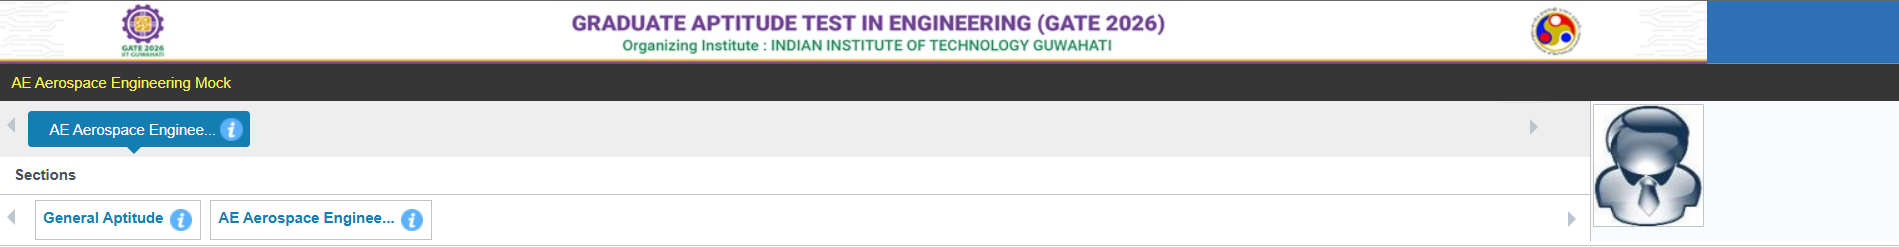
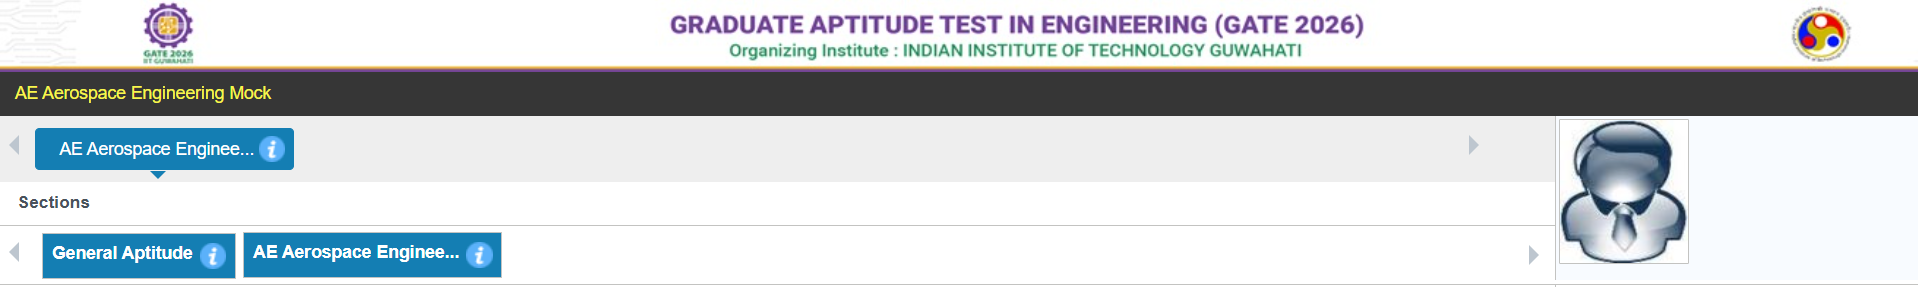
minor fixes

diff --git a/backend/frontend/resultManager.js b/backend/frontend/resultManager.js
@@ -125,7 +125,7 @@ function renderOptionsMCQ(r) {
 
         const displayText = formatInlineText(sanitize(rawText));
         const displayImg = rawImage
-            ? `<img src="${rawImage}" style="max-height: 200px;">`
+            ? `<img src="${rawImage}" class="option-img">`
             : '';
 
         // Compare EXACT VALUES (text or image path)
@@ -178,7 +178,7 @@ function renderOptionsMSQ(r) {
 
         const displayText = formatInlineText(sanitize(rawText));
         const displayImg = rawImage
-            ? `<img src="${rawImage}" style="max-height: 200px;">`
+            ? `<img src="${rawImage}" class="option-img">`
             : '';
 
         const isUser = userIdx.includes(index);
@@ -225,8 +225,11 @@ function viewResponseDetails(data, username, timestamp) {
     let totalTime = 0;
     let mcqWrong = 0;
     let penalty = 0;
+    let maxMarks = 0;
 
     responses.forEach(r => {
+        const w = Number(r.weightage) || 1;
+        maxMarks += w;
         if (r.response === 'Skipped') {
             skipped++;
         }
@@ -267,7 +270,17 @@ function viewResponseDetails(data, username, timestamp) {
     </b></p>`;
     html += `
     <div style="margin-top: 15px; font-size: 15px; line-height: 1.6;">
-        <p><b>🧮Total Questions:</b> ${total} | <b>📌Attempted:</b> ${attempted} | <b>🟣Skipped:</b> <span style="color: purple;">${skipped}</span> <br> <b>🎯Correct:</b> <span style="color: green;">${correct}</span> | <b>❌Wrong:</b> <span style="color: red;">${wrong}</span> | <b>🔻Penalized:</b> <span style="color: darkorange;">${penalizedScore}</span></p>
+        <p>
+            <b>🧮Total Questions:</b> ${total} |
+            <b>📌Attempted:</b> ${attempted} |
+            <b>🟣Skipped:</b> <span style="color: purple;">${skipped}</span> <br>
+
+            <b>🎯Correct:</b> <span style="color: green;">${correct}</span> |
+            <b>❌Wrong:</b> <span style="color: red;">${wrong}</span> |
+            <b>🔻Penalized:</b> <span style="color: darkorange;">${penalizedScore}</span> <br>
+
+            <b>🏁Maximum Marks:</b> <span style="color: #0d6efd; font-weight:bold;">${maxMarks}</span>
+        </p>
     </div>`;
     html += `<button onclick="window.location.reload()">Home</button>`;
 
@@ -325,11 +338,11 @@ function viewResponseDetails(data, username, timestamp) {
 
         // If the response/correctAnswer are images (png/jpg) show them
         userAnswerHTML = /\.(png|jpe?g)$/i.test(r.response)
-            ? `<img src="${r.response}" style="max-height:200px;">`
+            ? `<img src="${r.response}" class="option-img" style="max-height:150px;">`
             : sanitize(r.response);
 
         correctAnswerHTML = /\.(png|jpe?g)$/i.test(r.correctAnswer)
-            ? `<img src="${r.correctAnswer}" style="max-height:200px;">`
+            ? `<img src="${r.correctAnswer}" class="option-img" style="max-height:150px;">`
             : sanitize(r.correctAnswer);
 
         const timeTaken = r.responseTime || 'Skipped';
@@ -349,7 +362,7 @@ function viewResponseDetails(data, username, timestamp) {
                     .map(idx => {
                         const opt = r.options[idx - 1];
                         if (!opt) return '';
-                        if (opt.image) return `<img src="${opt.image}" style="max-height:80px;">`;
+                        if (opt.image) return `<img src="${opt.image}" class="option-img" style="max-height:80px;">`;
         		return `➡ ${sanitize(opt.text || '')}`;
                     })
                     .filter(Boolean)
@@ -369,7 +382,7 @@ function viewResponseDetails(data, username, timestamp) {
                     .map(idx => {
                         const opt = r.options[idx - 1];
                         if (!opt) return '';
-                        if (opt.image) return `<img src="${opt.image}" style="max-height:80px;">`;
+                        if (opt.image) return `<img src="${opt.image}" class="option-img" style="max-height:80px;">`;
         		return `➡ ${sanitize(opt.text || '')}`;
                     })
                     .filter(Boolean)
@@ -377,7 +390,7 @@ function viewResponseDetails(data, username, timestamp) {
             } else {
                 // fallback - keep original
                 correctAnswerHTML = /\.(png|jpe?g)$/i.test(r.correctAnswer)
-                    ? `<img src="${r.correctAnswer}" style="max-height:200px;">`
+                    ? `<img src="${r.correctAnswer}" class="option-img" style="max-height:150px;">`
                     : sanitize(r.correctAnswer);
             }
         }
@@ -434,7 +447,8 @@ function viewResponseDetails(data, username, timestamp) {
         if (r.correct === true) colorClass = 'nav-correct';
         else if (r.correct === false && r.response !== 'Skipped') colorClass = 'nav-wrong';
 
-        navHTML += `<button class="nav-btn ${colorClass}" data-target="q${index + 1}">${index + 1}</button>`;
+    const questionType = r.type || 'MCQ';
+        navHTML += `<button class="nav-btn ${colorClass}" data-target="q${index + 1}">${index + 1}<sup>${sanitize(questionType)}</sup></button>`;
     });
 
     navHTML += `</div>`;

diff --git a/backend/frontend/mobile.css b/backend/frontend/mobile.css
@@ -216,6 +216,7 @@ button:hover {
   overflow: hidden;
   color: #000;
   transition: background-color 0.2s ease;
+  width: fit-content;
 }
 
 .answer-option:hover {
@@ -225,14 +226,27 @@ button:hover {
 .answer-option img {
   display: block;
   margin: 0 auto;
-  height: auto;
   max-width: 100%;
+  max-height: 40px;
+  height: auto;
+  width: auto;
+  object-fit: contain;
 }
 
 /* ====== Selected Option ====== */
 .selected {
   background-color: #d3d3d3;
   border: 2px solid #000;
+}
+
+.option-img {
+  max-height: 40px !important;     /* adjust if needed */
+  width: auto;
+  height: auto;
+  object-fit: contain;
+  display: block;
+  margin: 6px auto;
+  margin: initial;
 }
 
 /* ====== Results Section ====== */
@@ -483,6 +497,12 @@ button:hover {
   border-radius: 4px;
   font-weight: bold;
   cursor: pointer;
+}
+
+.nav-btn sup {
+  font-size: 0.4em;
+  margin-left: 2px;
+  opacity: 0.8;
 }
 
 .nav-btn:hover {

diff --git a/backend/frontend/style.css b/backend/frontend/style.css
@@ -292,6 +292,16 @@ button:hover {
   object-fit: contain;
 }
 
+.option-img {
+  max-height: 100px !important;     /* adjust if needed */
+  width: auto;
+  height: auto;
+  object-fit: contain;
+  display: block;
+  margin: 6px auto;
+  margin: initial;
+}
+
 /* ====== Selected Option ====== */
 .selected {
   background-color: #d3d3d3;
@@ -406,6 +416,7 @@ button:hover {
 .quiz-container img {
   max-width: 100%;
   height: auto;
+  max-height: 700px;
 }
 
 #scrollButtons {
@@ -549,6 +560,12 @@ button:hover {
   border-radius: 4px;
   font-weight: bold;
   cursor: pointer;
+}
+
+.nav-btn sup {
+  font-size: 0.4em;
+  margin-left: 2px;
+  opacity: 0.8;
 }
 
 .nav-btn:hover {
